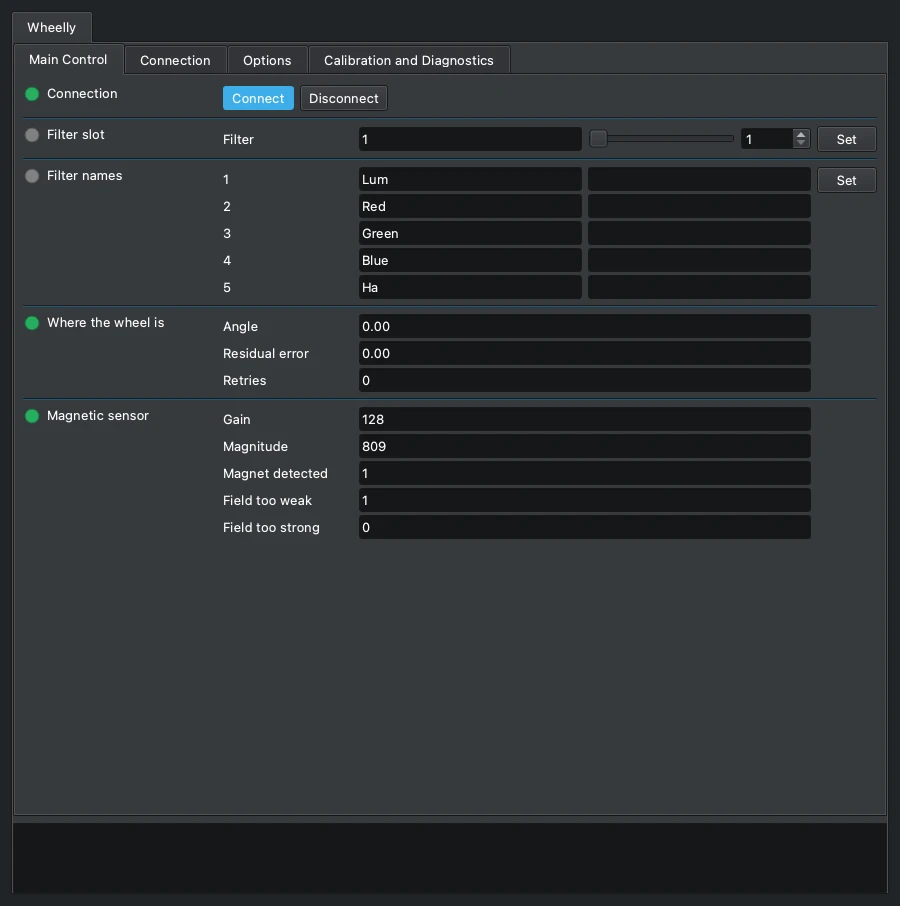
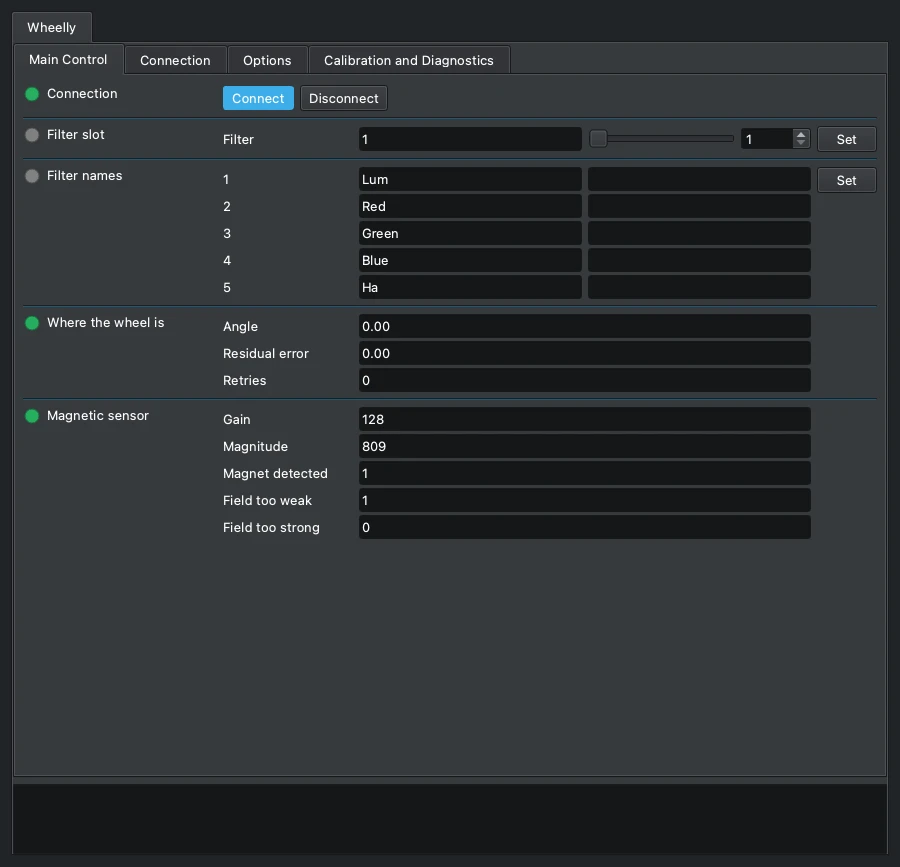
Wheelly: executable indi_wheelly_wheel; the sweep is a CSV drawn by a viewer
Follows the driver's review in indilib/indi#2499: the executable ends in
_wheel, and the driver no longer draws the sweep plot.

Changed region(s): [[0.0311, 0.0, 0.9644, 0.6228], [0.0311, 0.9031, 0.9644, 0.9343], [0.0311, 0.3426, 0.1867, 0.3737]]

diff --git a/src/content/docs/filter-wheels/generic/wheelly/wheelly.md b/src/content/docs/filter-wheels/generic/wheelly/wheelly.md
@@ -43,8 +43,9 @@ wheel the firmware has been set up for.
   LED mode, all stored in the wheel.
 - Diagnostics: the encoder's magnitude and flags at every poll, a hardware
   check that asks the firmware whether it can talk to the sensor and to the
-  motor driver, a magnet sweep that turns the wheel once and sends a PNG plot
-  of the field strength, and an optional CSV log of every filter change.
+  motor driver, a magnet sweep that turns the wheel once and writes the field
+  strength at every angle to a CSV file, and an optional CSV log of every
+  filter change.
 - A wheel is recognised by its serial number, not by its port: each profile
   remembers its own wheel, which matters with two wheels attached.
 
@@ -92,8 +93,10 @@ The first time, open **Calibration and Diagnostics**:
   a mechanical problem.
 - **Magnetic sensor.** *Magnitude* below 350 means the magnet is too far or off
   centre. The *Magnet sweep* measures it over a full turn: the smaller the
-  variation, the better the magnet is centred. The plot is also written to the
-  sweeps folder (default `~/Documents`).
+  variation, the better the magnet is centred. The samples are written as a CSV
+  file to the sweeps folder (default `~/Documents`); the
+  [sweep viewer](https://teoteo.github.io/Wheelly/tools/sweep.html), a single page
+  that also works saved and opened offline, draws it and compares several.
 - **Slipping or stalling.** Raise the run current in *Options → Motor* until the
   drive stops slipping, and no further. Very low speeds are weaker, not gentler:
   a small stepper has little torque there.
